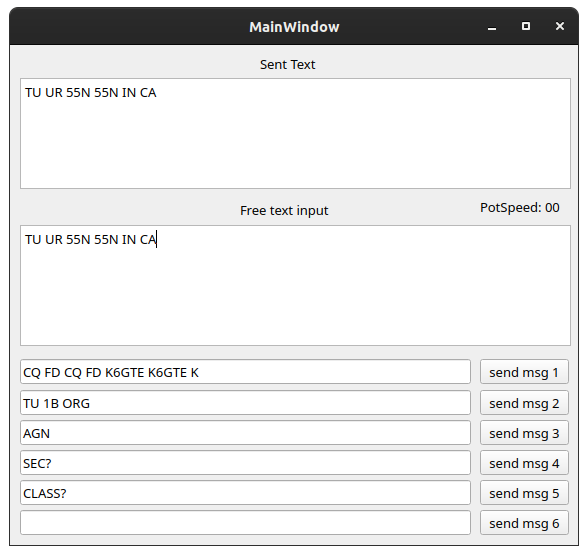
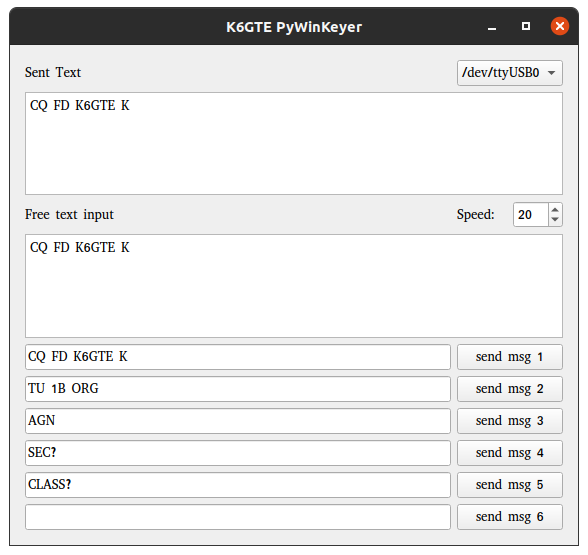
Added port selector and speedchange widget.

diff --git a/winkeyerserial.py b/winkeyerserial.py
@@ -42,7 +42,7 @@ class winkeyer(QtWidgets.QMainWindow):
     #device = '/dev/ttyUSB0'
     device=''
     oldtext = ''
-    port = ''
+    port = False
     initialpot = False
     settings_dict = {
         "device":"/dev/ttyUSB0",
@@ -55,6 +55,11 @@ class winkeyer(QtWidgets.QMainWindow):
     }
 
     def __init__(self, *args, **kwargs):
+        """
+        connects the widgets to their callbacks.
+        queries for existing serial ports.
+        loads in saved defaults.
+        """
         super().__init__(*args, **kwargs)
         uic.loadUi(self.relpath("main.ui"), self)
         self.sendmsg1_button.clicked.connect(self.sendmsg1)
@@ -64,6 +69,11 @@ class winkeyer(QtWidgets.QMainWindow):
         self.sendmsg5_button.clicked.connect(self.sendmsg5)
         self.sendmsg6_button.clicked.connect(self.sendmsg6)
         self.inputbox.textChanged.connect(self.handleTextChange)
+        self.spinBox_speed.valueChanged.connect(self.spinboxspeed)
+        a = QSerialPortInfo()
+        for n in a.availablePorts():
+            self.comboBox_device.addItem(n.systemLocation())
+        self.comboBox_device.currentIndexChanged.connect(self.changeSerial)
         self.loadsaved()
 
     def relpath(self, filename):
@@ -76,6 +86,15 @@ class winkeyer(QtWidgets.QMainWindow):
         except:
             base_path = os.path.abspath(".")
         return os.path.join(base_path, filename)
+
+    def changeSerial(self):
+        """
+        The serial device was changed via the onscreen widget.
+        """
+        self.settings_dict['device'] = self.comboBox_device.currentText()
+        self.savestuff()
+        self.device = self.settings_dict['device']
+        self.host_init()
 
     def loadsaved(self):
         """
@@ -118,22 +137,29 @@ class winkeyer(QtWidgets.QMainWindow):
         f = open(home+"/.pywinkeyer.json", "wt")
         f.write(json.dumps(self.settings_dict))
 
-
-
-
     def host_init(self):
+        """
+        Opens the serial port and sets its parameters
+        """
+        self.comboBox_device.setCurrentIndex(self.comboBox_device.findText(self.device))
         try:
-            #self.port = serial.Serial(self.device, 1200, timeout=1)
+            if self.port:
+                self.port.close()
             self.port = QSerialPort(self)
             self.port.setPortName(self.device)
             self.port.setBaudRate(QSerialPort.Baud1200)
+            self.port.setDataBits(QSerialPort.Data8)
+            self.port.setParity(QSerialPort.NoParity)
+            self.port.setStopBits(QSerialPort.TwoStop)
             if self.port.open(QSerialPort.ReadWrite):
                 self.port.setDataTerminalReady(True)
                 self.port.setRequestToSend(False)
             else:
+                self.outputbox.clear()
                 self.outputbox.insertPlainText(f"Unable to open serial port: {self.device}")
                 return
         except:
+            self.outputbox.clear()
             self.outputbox.insertPlainText(f"Unable to open serial port: {self.device}")
             self.port = False
             return
@@ -144,11 +170,14 @@ class winkeyer(QtWidgets.QMainWindow):
         Sends the open command to winkeyer so it will start listening to us.
         """
         self.host_close()
-        time.sleep(1) #the house of cards falls apart if this is removed...
+        time.sleep(1) #wait for the keyer to reset.
         command = b'\x00\x02'
         self.port.write(command)
-        self.port.waitForReadyRead()
+        self.port.waitForReadyRead(1000)
         self.version = self.port.read(255)
+        if self.version == b'': #No version... Maybe the wrong serial port was chosen.
+            self.outputbox.clear()
+            self.outputbox.insertPlainText(f"{self.device} is open but WinKeyer is not responding")
         self.port.readyRead.connect(self.getwaiting)
         command = b'\x07'  # have the winkeyer return the pot speed setting
         self.port.write(command)
@@ -163,11 +192,21 @@ class winkeyer(QtWidgets.QMainWindow):
         """
         command=chr(2)+chr(int(speed))
         self.port.write(command.encode())
-        self.potspeed_label.setText(f"{int(speed)}")
+        self.spinBox_speed.setValue(int(speed))
 
     def potspeed(self, speed):
+        """
+        The pot speed value is the 6 LSB of the returned byte.
+        It has the 2 MSB of the byte set to 10 
+        """
         self.setspeed(speed-123)
-        #self.potspeed_label.setText(f"{speed-123}")
+
+
+    def spinboxspeed(self):
+        """
+        User changed the speed value in the spinbox.
+        """
+        self.setspeed(self.spinBox_speed.value())
 
 
     def setmode(self):
